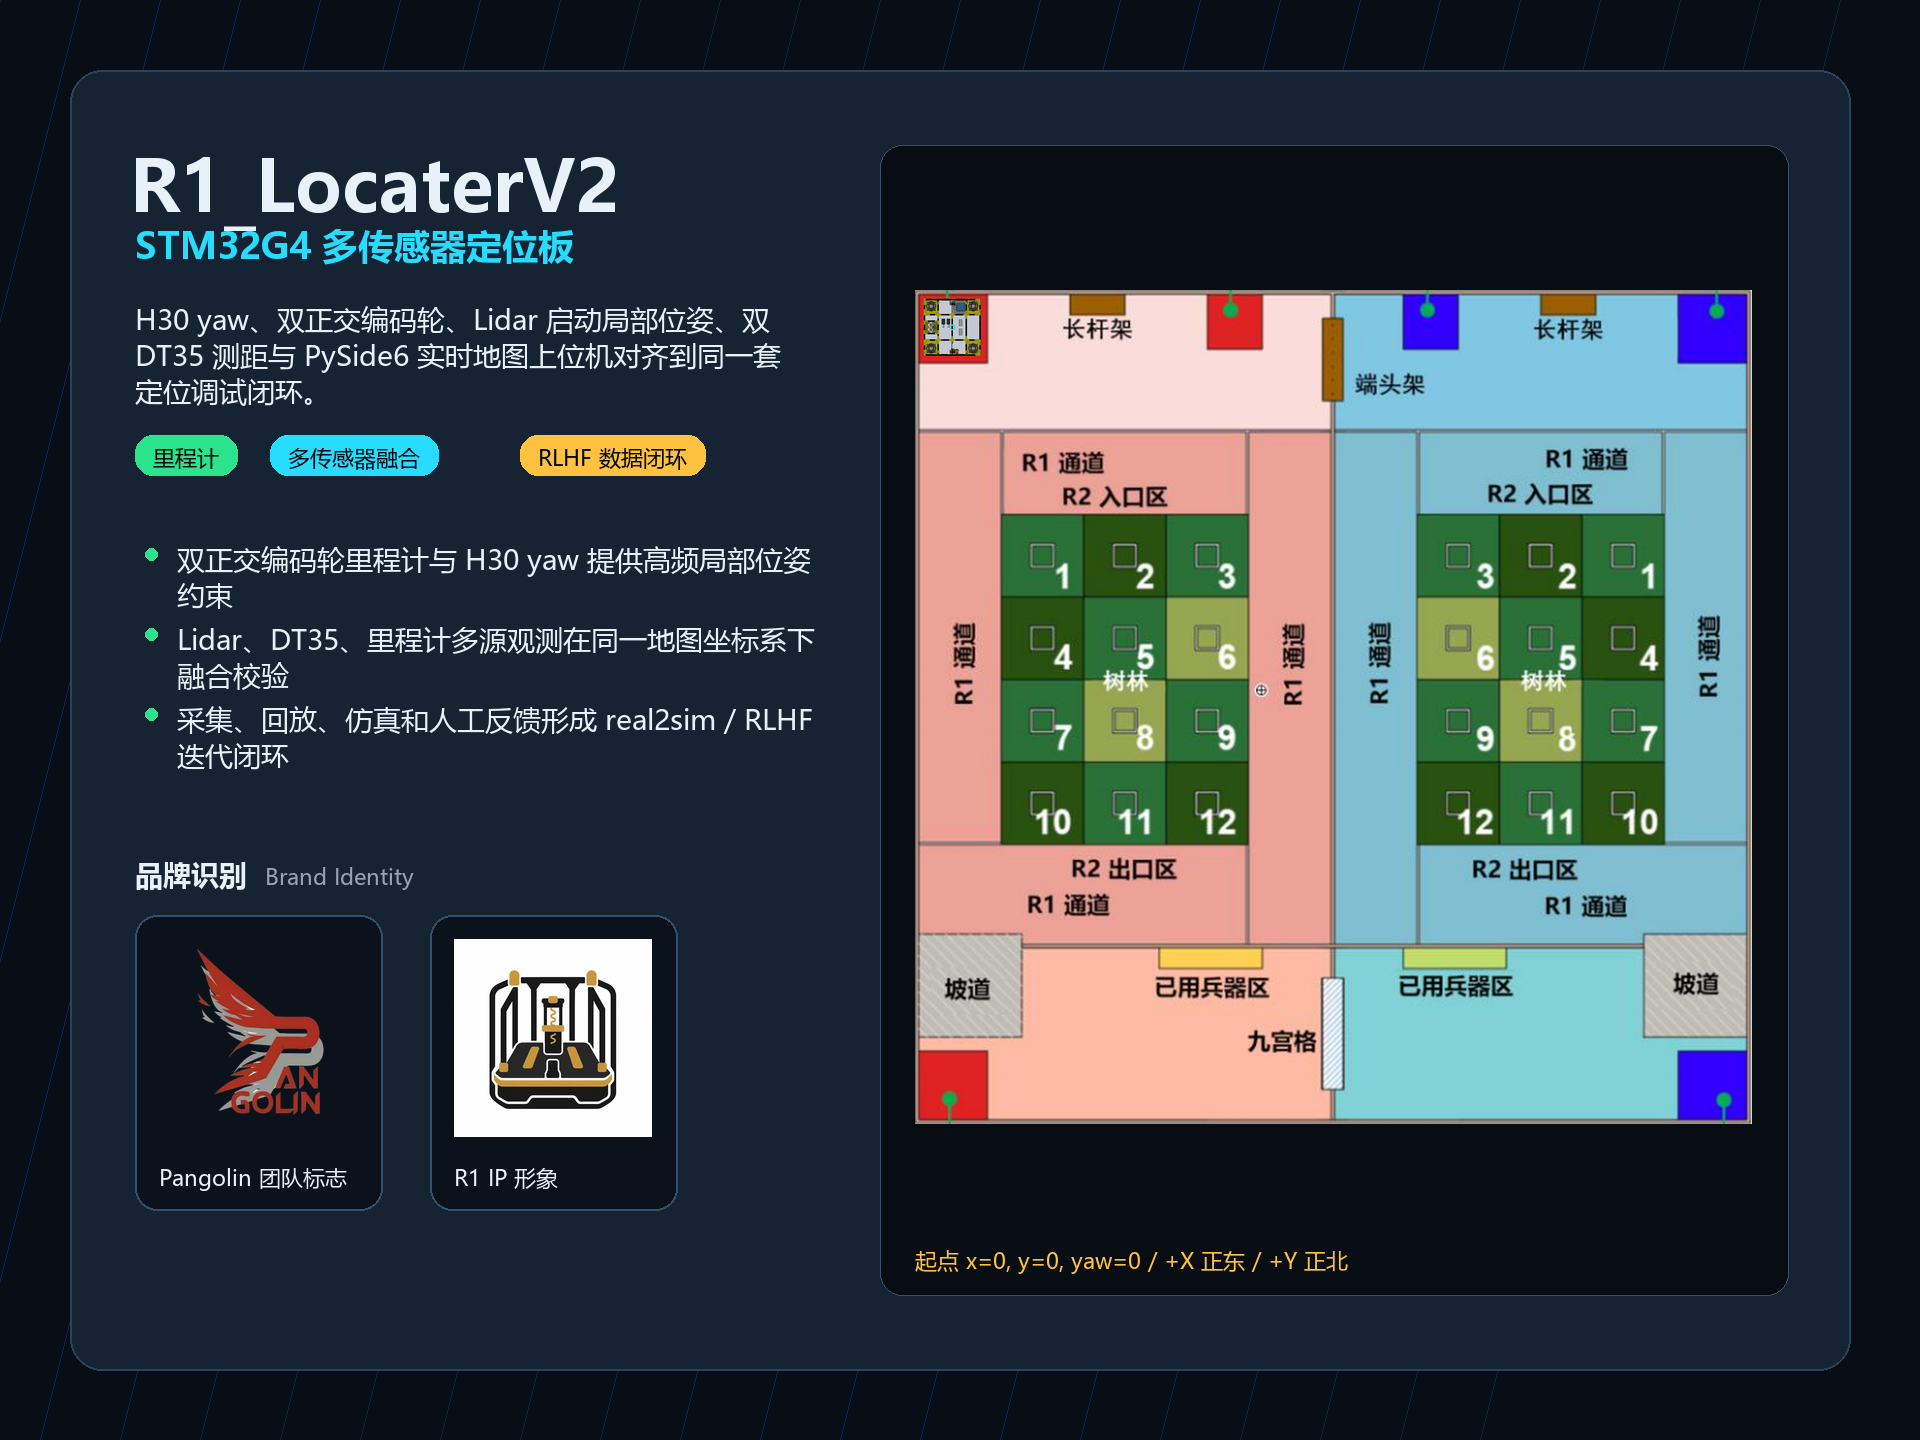
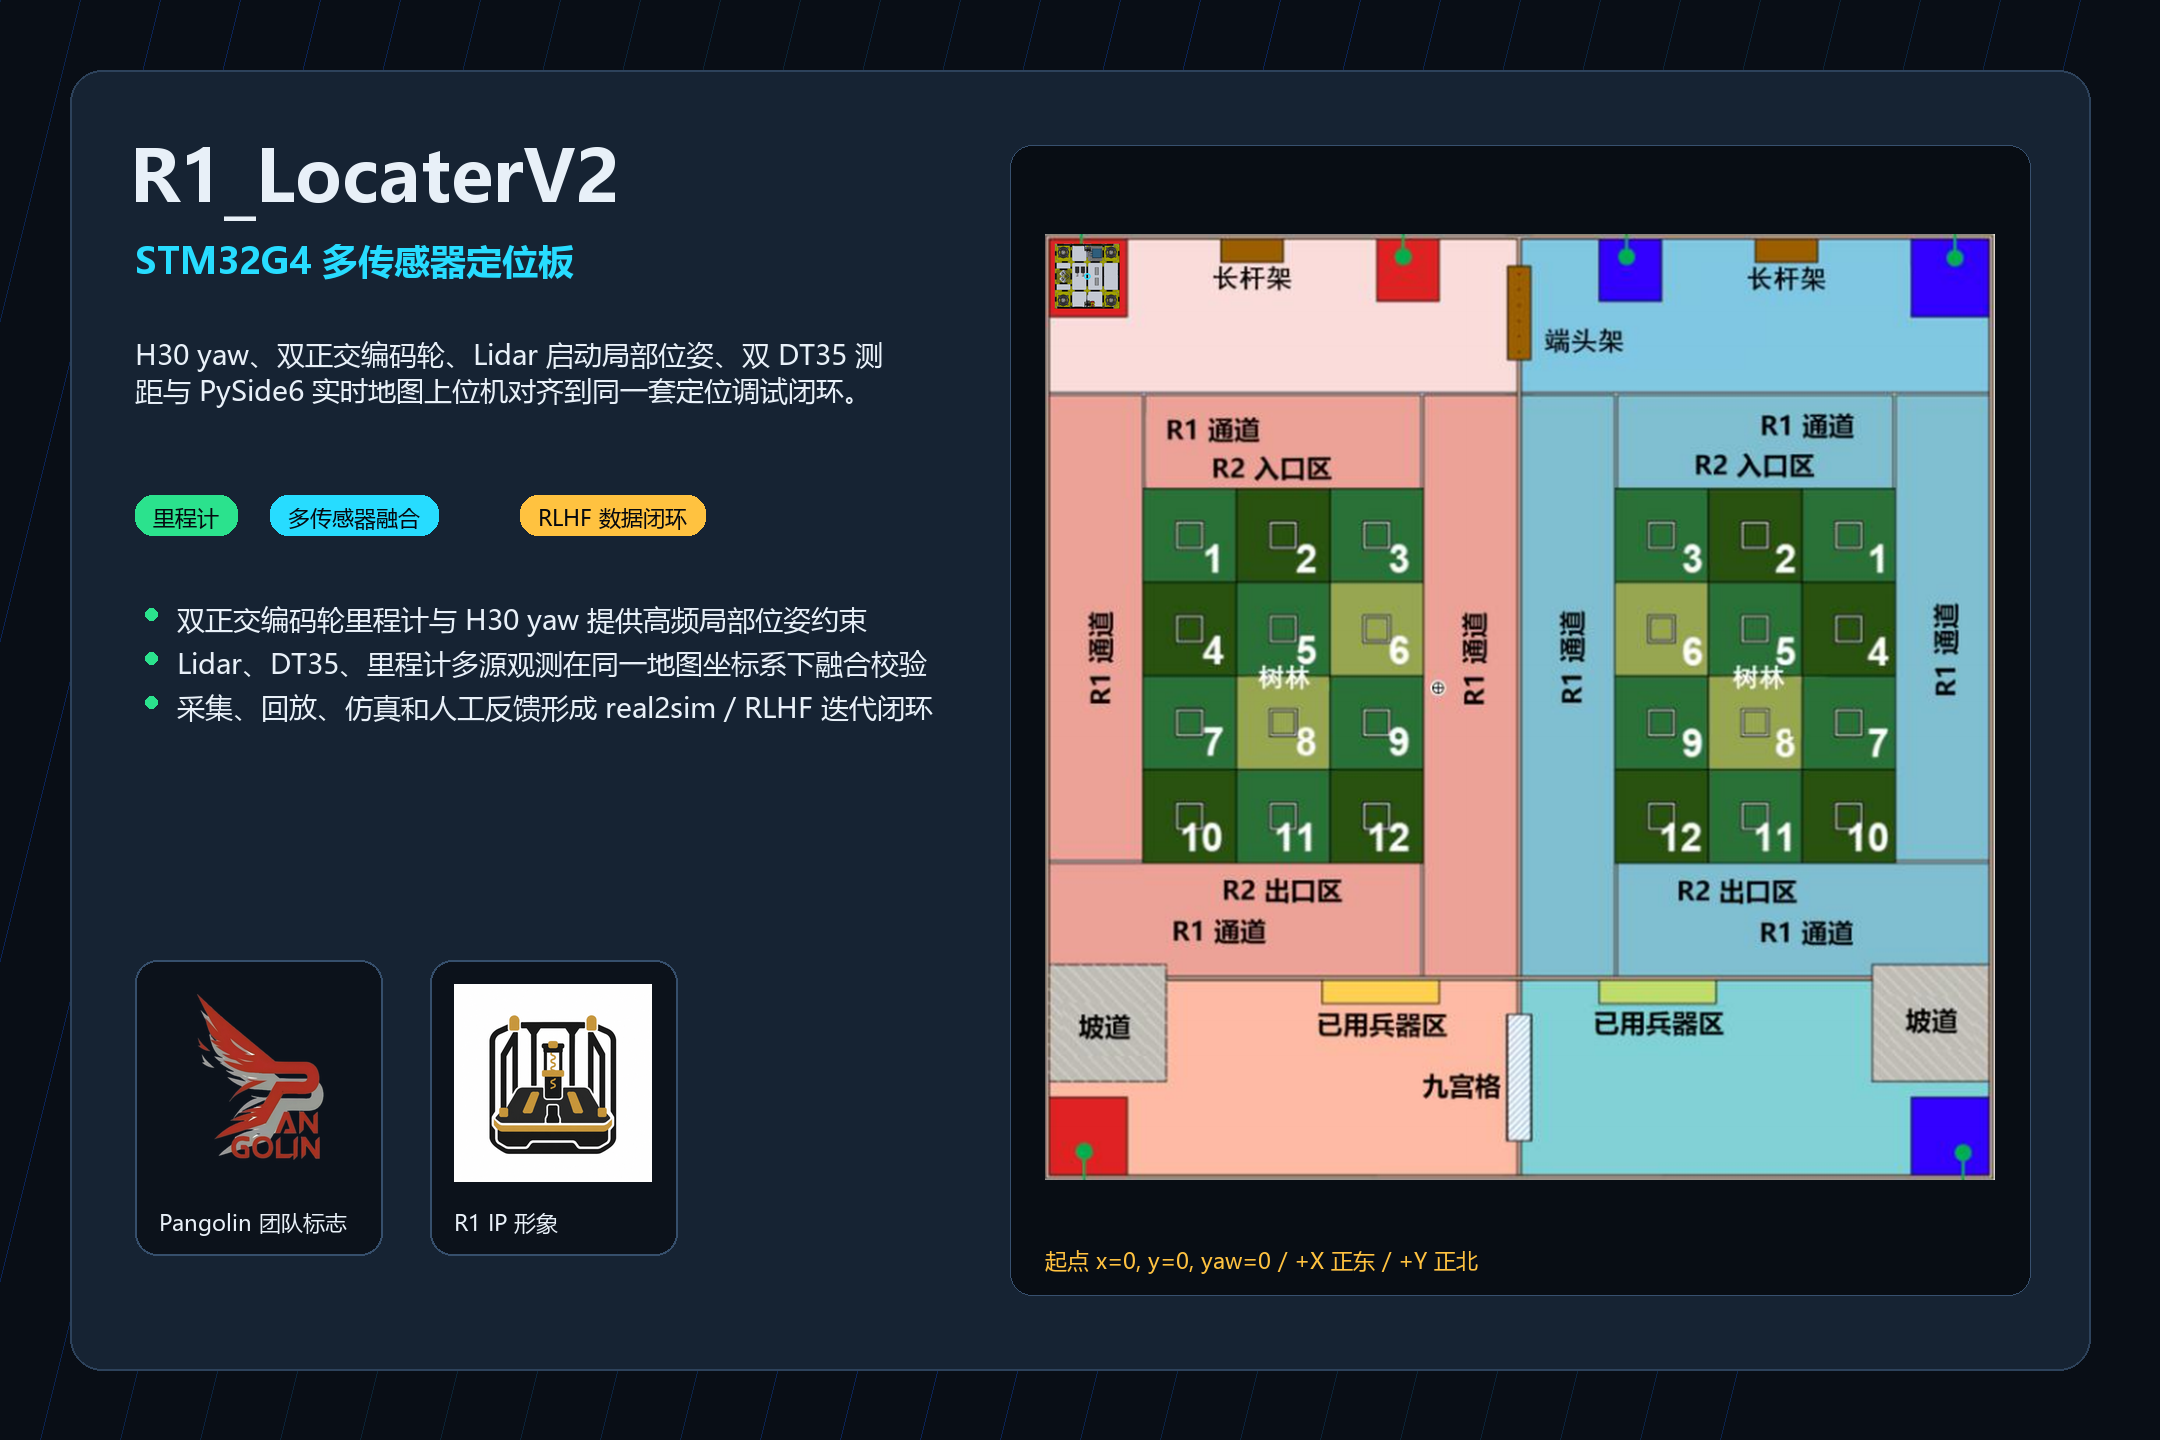
Polish README poster and Juejin links

Changed region(s): [[0.0312, 0.0312, 0.9688, 0.9375]]

diff --git a/docs/index.html b/docs/index.html
@@ -100,9 +100,9 @@
 
     h1 {
       margin: 0;
-      font-size: clamp(3rem, 7vw, 6.2rem);
+      font-size: clamp(3rem, 6vw, 5.2rem);
       line-height: 0.9;
-      letter-spacing: -0.035em;
+      letter-spacing: 0;
     }
 
     .tagline {
@@ -175,7 +175,7 @@
       margin: 0;
       font-size: clamp(2rem, 4vw, 3.2rem);
       line-height: 1;
-      letter-spacing: -0.02em;
+      letter-spacing: 0;
     }
 
     .muted { color: var(--muted); }
@@ -234,6 +234,7 @@
         <a href="#system">系统</a>
         <a href="#demo">视频</a>
         <a href="#workflow">闭环</a>
+        <a href="https://juejin.cn/spost/7654479136493420554">掘金文章</a>
         <a href="https://github.com/lwbscu/R1_LocaterV2">GitHub</a>
       </div>
     </div>
@@ -251,6 +252,7 @@
       </div>
       <div class="actions">
         <a class="btn primary" href="promo-video.html">观看演示视频</a>
+        <a class="btn" href="https://juejin.cn/spost/7654479136493420554">阅读掘金文章</a>
         <a class="btn" href="https://github.com/lwbscu/R1_LocaterV2">查看源码</a>
         <a class="btn" href="promotion/index.html">媒体页</a>
       </div>

diff --git a/docs/promo-video.html b/docs/promo-video.html
@@ -83,7 +83,7 @@
       margin: 0 0 12px;
       font-size: clamp(3rem, 7vw, 6.4rem);
       line-height: 0.9;
-      letter-spacing: -0.035em;
+      letter-spacing: 0;
     }
     h1 em { color: var(--cyan); font-style: normal; }
     .lead { margin: 0; color: #cbd7e4; font-size: 1.08rem; max-width: 780px; }
@@ -163,6 +163,7 @@
       <a class="brand" href="index.html">R1_LocaterV2</a>
       <div class="links">
         <a href="index.html">宣传页</a>
+        <a href="https://juejin.cn/spost/7654479136493420554">掘金文章</a>
         <a href="https://github.com/lwbscu/R1_LocaterV2">GitHub</a>
       </div>
     </nav>
@@ -190,6 +191,7 @@
 
     <div class="actions">
       <a class="btn primary" href="https://cdn.jsdelivr.net/gh/lwbscu/R1_LocaterV2@main/docs/promotion/r1-locaterv2-demo.mp4">下载完整演示 MP4</a>
+      <a class="btn" href="https://juejin.cn/spost/7654479136493420554">阅读掘金文章</a>
       <a class="btn" href="promotion/r1-locaterv2-demo-teaser.gif">GIF 预览</a>
       <a class="btn" href="index.html">返回宣传页</a>
     </div>

diff --git a/docs/promotion/build_promo_assets.py b/docs/promotion/build_promo_assets.py
@@ -19,7 +19,7 @@ R1_IP_IMAGE = DOCS_DIR / "R1.png"
 SIM_LOG_DIR = ROOT / "locater_map" / "logs" / "RL_data" / "20260623_coord_fixed_four_stages" / "ideal_log" / "png"
 
 W, H = 1920, 1080
-POSTER_W, POSTER_H = 1920, 1440
+POSTER_W, POSTER_H = 2160, 1440
 BG = (9, 14, 22)
 PANEL = (16, 24, 36)
 PANEL_2 = (22, 35, 51)
@@ -164,21 +164,21 @@ def make_poster() -> Path:
         canvas.paste(fitted, (px, py))
 
     canvas, draw = base_canvas(POSTER_W, POSTER_H)
-    round_rect(draw, (70, 70, 1850, 1370), 32, PANEL_2, outline=(45, 66, 91), width=2)
-    draw.text((130, 135), "R1_LocaterV2", font=F_TITLE, fill=TEXT)
-    draw.text((135, 220), "STM32G4 多传感器定位板", font=F_SUBTITLE, fill=CYAN)
+    round_rect(draw, (70, 70, 2090, 1370), 32, PANEL_2, outline=(45, 66, 91), width=2)
+    draw.text((130, 125), "R1_LocaterV2", font=F_TITLE, fill=TEXT)
+    draw.text((135, 235), "STM32G4 多传感器定位板", font=F_SUBTITLE, fill=CYAN)
     draw_wrapped(
         draw,
         "H30 yaw、双正交编码轮、Lidar 启动局部位姿、双 DT35 测距与 PySide6 实时地图上位机对齐到同一套定位调试闭环。",
-        (135, 300),
-        650,
+        (135, 335),
+        760,
         fnt=F_BODY,
         fill=TEXT,
     )
-    draw_badge(draw, (135, 435), "里程计", GREEN)
-    draw_badge(draw, (270, 435), "多传感器融合", CYAN)
-    draw_badge(draw, (520, 435), "RLHF 数据闭环", YELLOW)
-    y = 540
+    draw_badge(draw, (135, 495), "里程计", GREEN)
+    draw_badge(draw, (270, 495), "多传感器融合", CYAN)
+    draw_badge(draw, (520, 495), "RLHF 数据闭环", YELLOW)
+    y = 600
     bullets = [
         "双正交编码轮里程计与 H30 yaw 提供高频局部位姿约束",
         "Lidar、DT35、里程计多源观测在同一地图坐标系下融合校验",
@@ -186,13 +186,11 @@ def make_poster() -> Path:
     ]
     for item in bullets:
         draw.ellipse((145, y + 8, 157, y + 20), fill=GREEN)
-        y = draw_wrapped(draw, item, (177, y), 660, fnt=F_BODY, fill=TEXT) + 8
+        y = draw_wrapped(draw, item, (177, y), 760, fnt=F_BODY, fill=TEXT) + 8
 
-    draw.text((135, 855), "品牌识别", font=F_BODY_BOLD, fill=TEXT)
-    draw.text((265, 861), "Brand Identity", font=F_SMALL, fill=MUTED)
     brand_cards = [
-        ((135, 915, 382, 1210), PANGOLIN_LOGO, "Pangolin 团队标志"),
-        ((430, 915, 677, 1210), R1_IP_IMAGE, "R1 IP 形象"),
+        ((135, 960, 382, 1255), PANGOLIN_LOGO, "Pangolin 团队标志"),
+        ((430, 960, 677, 1255), R1_IP_IMAGE, "R1 IP 形象"),
     ]
     for box, img_path, label in brand_cards:
         x1, y1, x2, y2 = box
@@ -202,13 +200,13 @@ def make_poster() -> Path:
             paste_fit(canvas, img_path, image_box, cover=False)
         draw.text((x1 + 24, y2 - 48), label, font=F_SMALL, fill=TEXT)
 
-    media_frame = (880, 145, 1788, 1295)
+    media_frame = (1010, 145, 2030, 1295)
     round_rect(draw, media_frame, 22, (8, 13, 20), outline=(55, 80, 110), width=1)
     if start_map and start_map.exists():
-        paste_media(start_map, (915, 180, 1753, 1235), cover=False)
+        paste_media(start_map, (1045, 180, 1995, 1235), cover=False)
     elif field.exists():
-        paste_media(field, (915, 180, 1753, 1235), cover=False)
-    draw.text((915, 1245), "起点 x=0, y=0, yaw=0 / +X 正东 / +Y 正北", font=F_SMALL, fill=YELLOW)
+        paste_media(field, (1045, 180, 1995, 1235), cover=False)
+    draw.text((1045, 1245), "起点 x=0, y=0, yaw=0 / +X 正东 / +Y 正北", font=F_SMALL, fill=YELLOW)
     out.parent.mkdir(parents=True, exist_ok=True)
     canvas.save(out, quality=95)
     return out